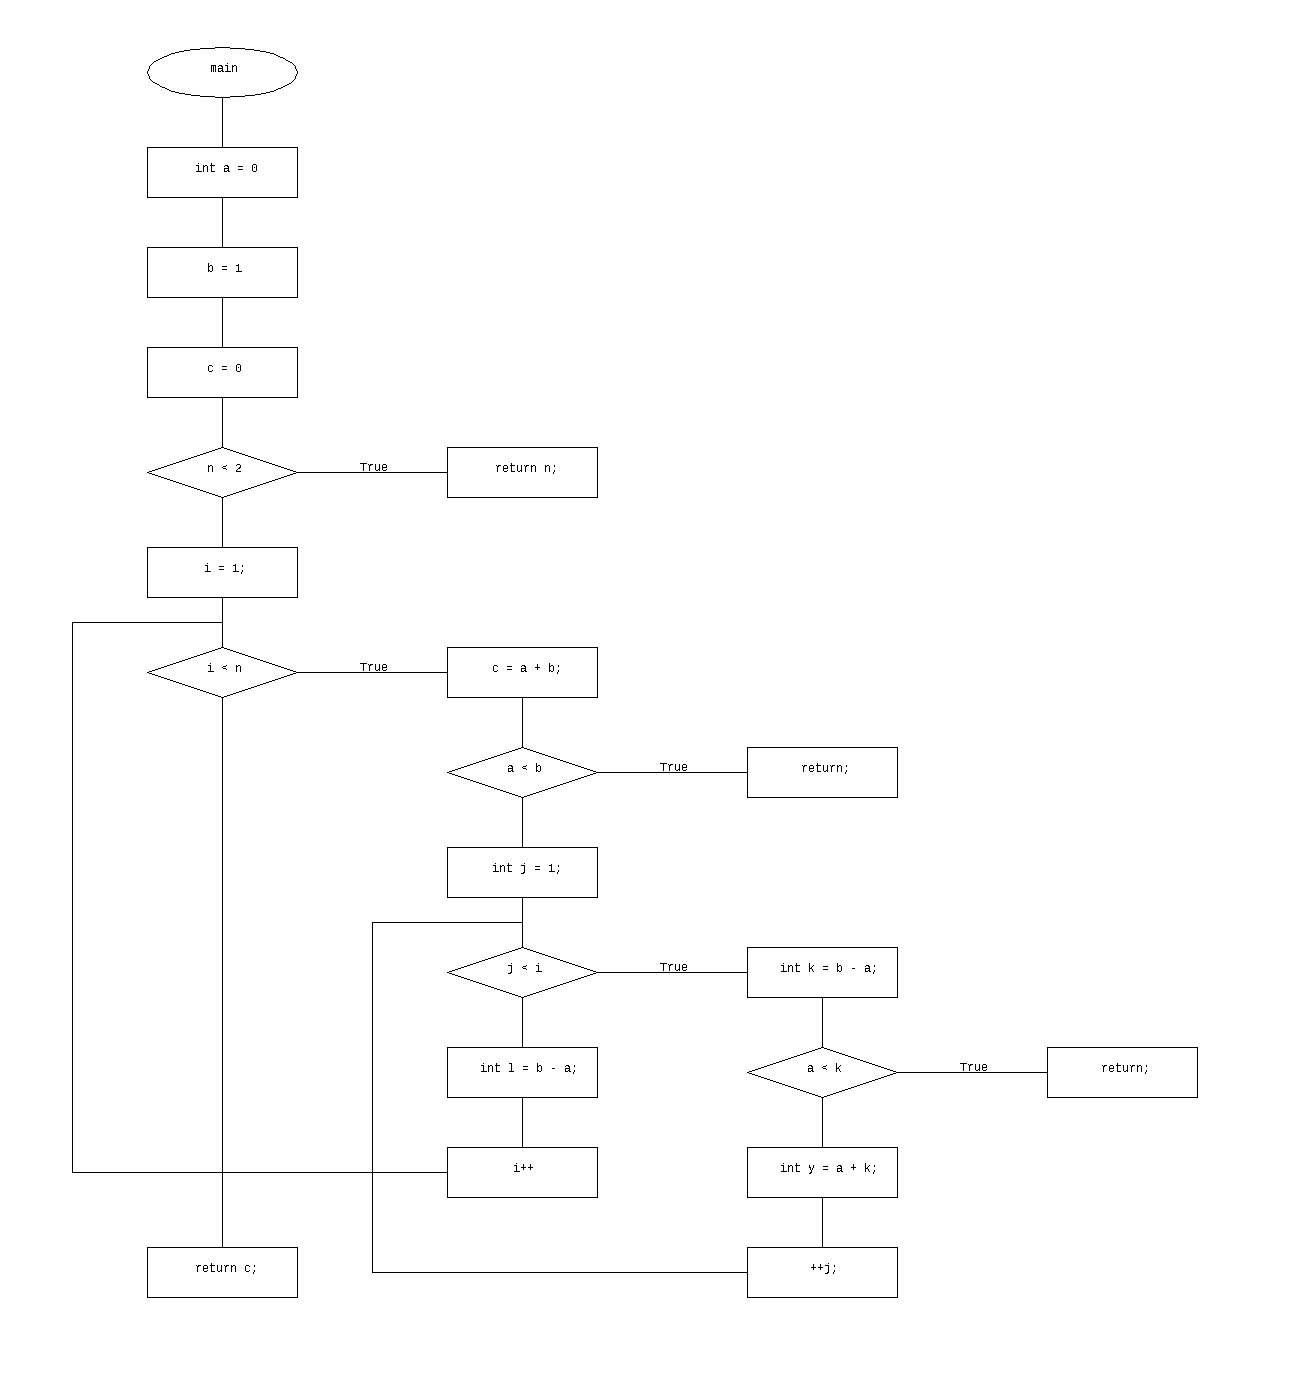
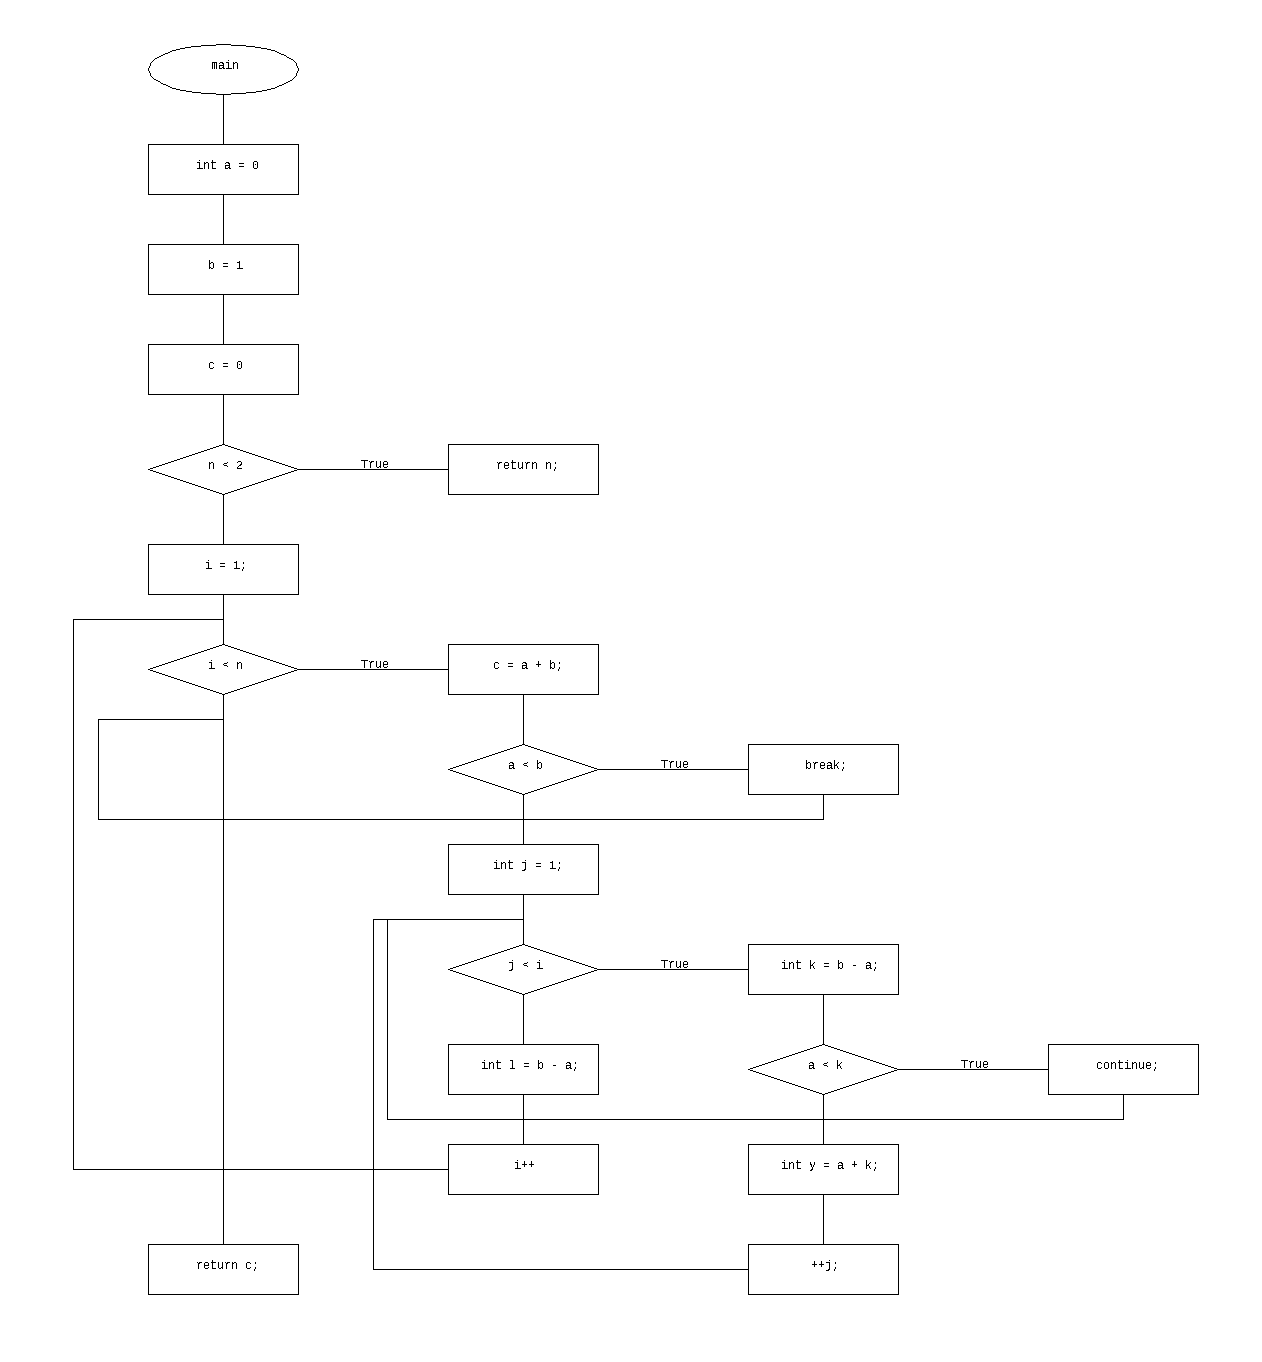
Test listing and picture

diff --git a/Lab1/report/listings/test.java b/Lab1/report/listings/test.java
@@ -1,15 +1,15 @@
 public class Main{
-	public void main(String[] args) {
+	public void main() {
 		int a = 0, b = 1, c = 0, i;
 		if(n < 2) return n;
 		for (i = 1; i < n; i++)
 		{
 			c = a + b;
-			if(a < b) return;
+			if(a < b) break;
 			int j = 1;
 			while (j < i) {
 				int k = b - a;
-				if(a < k) return;
+				if(a < k) continue;
 				int y = a + k; 
 				++j;
 			}
